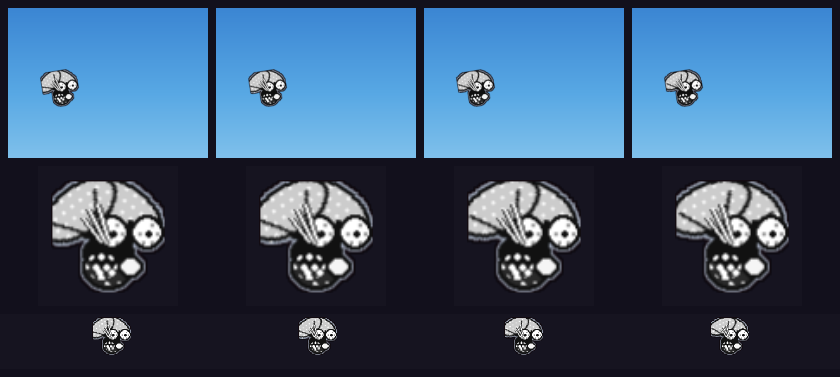
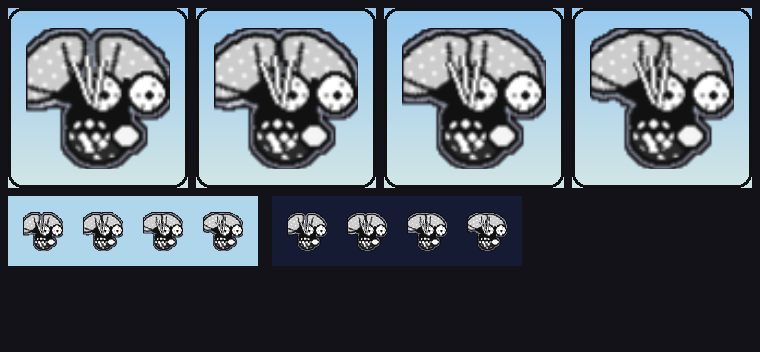
fly pop_v2 R2: MIDNIGHT NOIR — round wings, whiten eyes, bold setae, sparser dots
Claude-Session: https://claude.ai/code/session_01K6KPJsdtoYoDR2za2Jqnmo

diff --git a/tools/fly_candidates/_render_pop_v2_r2.py b/tools/fly_candidates/_render_pop_v2_r2.py
@@ -1,0 +1,69 @@
+import os, sys
+os.environ.setdefault("SDL_VIDEODRIVER", "dummy")
+os.environ.setdefault("SDL_AUDIODRIVER", "dummy")
+sys.path.insert(0, "/home/user/skybit")
+import importlib
+import pygame
+pygame.init()
+import tools.fly_candidates.pop_v2 as m
+importlib.reload(m)
+build = m.build
+
+
+def sky(surf, top, bot):
+    r = surf.get_rect()
+    for y in range(r.height):
+        t = y / r.height
+        c = tuple(int(top[i] + (bot[i] - top[i]) * t) for i in range(3))
+        pygame.draw.line(surf, c, (0, y), (r.width, y))
+
+
+DAY = ((150, 200, 240), (210, 230, 230))
+NIGHT = ((14, 18, 40), (34, 40, 74))          # night-biome dusk-blue field
+
+panels = []
+for fi in range(4):
+    fr = build(fi, 0.0)
+    hp = pygame.Surface((180, 180), pygame.SRCALPHA)
+    sky(hp, *DAY)
+    pygame.draw.rect(hp, (17, 17, 17), hp.get_rect(), 3, border_radius=14)
+    bb = fr.get_bounding_rect()
+    fr2 = fr.subsurface(bb).copy() if (bb.width and bb.height) else fr
+    sw, sh = fr2.get_size()
+    scale = (180 * 0.80) / max(sw, sh)
+    fr2 = pygame.transform.smoothscale(
+        fr2, (max(1, int(sw * scale)), max(1, int(sh * scale))))
+    hp.blit(fr2, fr2.get_rect(center=(90, 90)))
+    panels.append(hp)
+
+
+def truth_strip(bg):
+    strip = pygame.Surface((4 * 60 + 10, 70), pygame.SRCALPHA)
+    strip.fill(bg)
+    for fi in range(4):
+        fr = build(fi, 0.0)
+        bb = fr.get_bounding_rect()
+        fr2 = fr.subsurface(bb).copy() if (bb.width and bb.height) else fr
+        sw, sh = fr2.get_size()
+        scale = 40.0 / max(sw, sh)
+        fr40 = pygame.transform.scale(
+            fr2, (max(1, int(sw * scale)), max(1, int(sh * scale))))
+        strip.blit(fr40, fr40.get_rect(center=(fi * 60 + 35, 35)))
+    return strip
+
+# Two 40px NEAREST truth strips — the real in-game read on a lit day sky AND on
+# the night biome, the survivability check the R1 sheet was missing.
+day_strip = truth_strip((176, 214, 235))
+night_strip = truth_strip((22, 27, 52))
+
+sheet = pygame.Surface((4 * 188 + 8, 188 + 82 * 2), pygame.SRCALPHA)
+sheet.fill((18, 18, 24))
+for i, p in enumerate(panels):
+    sheet.blit(p, (8 + i * 188, 8))
+sheet.blit(day_strip, (8, 196))
+sheet.blit(night_strip, (8 + 4 * 60 + 24, 196))
+
+out = "/home/user/skybit/docs/store_redesign/animal/fly/pop_v2/round_2.png"
+os.makedirs(os.path.dirname(out), exist_ok=True)
+pygame.image.save(sheet, out)
+print("Saved", out)

diff --git a/tools/fly_candidates/pop_v2.py b/tools/fly_candidates/pop_v2.py
@@ -179,11 +179,11 @@ def build_pop_v2(wing_angle_deg):
     # dome leans further out on the wing-up frames so the pair rides from a low
     # spread to a raised broad fan — never a tall narrow "rabbit-ear" V.
     wing = _wing_surface()
-    ang = 24 + f * 14
+    ang = 30 + f * 14
     left = pygame.transform.flip(wing, True, False)
     left_root = (wing.get_width() - 1 - _WING_ROOT[0], _WING_ROOT[1])
-    _place_rotated(surf, wing, _WING_ROOT, -ang, (30, 31))
-    _place_rotated(surf, left, left_root, ang, (26, 31))
+    _place_rotated(surf, wing, _WING_ROOT, -ang, (34, 31))
+    _place_rotated(surf, left, left_root, ang, (22, 31))
 
     # ── one round inked barrel: black thorax fused into charcoal abdomen ──
     body = _new()
@@ -242,7 +242,7 @@ def build_pop_v2(wing_angle_deg):
     # thorax to CLEAR the top of the silhouette — they must read as spikes even
     # at 40px, so the invisible speckle is gone and the flicks are thick white.
     for (x0, y0), (x1, y1) in (
-            ((29, 33), (20, 16)), ((31, 32), (25, 13)), ((27, 34), (17, 21))):
+            ((28, 32), (26, 12)), ((30, 32), (33, 14)), ((27, 33), (20, 15))):
         pygame.draw.line(surf, INK, (x0, y0), (x1, y1), 4)
         pygame.draw.line(surf, WHITE, (x0, y0), (x1, y1), 2)
 
